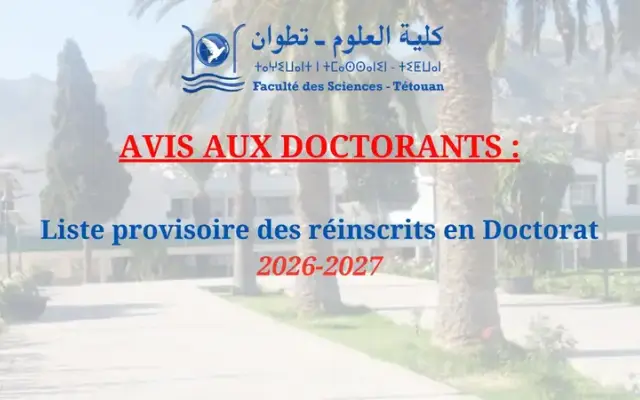
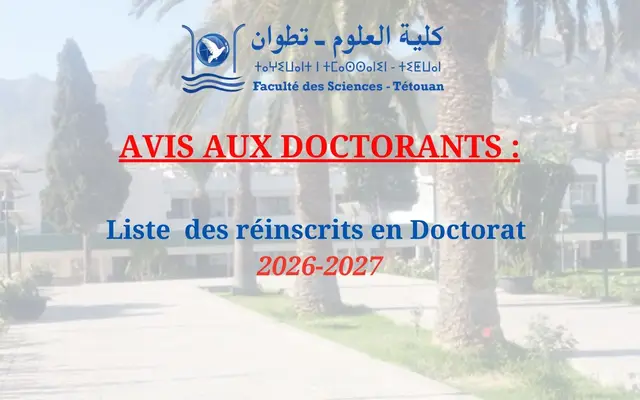
data: scrape 2026-10-07 12:00 UTC

diff --git a/data/posts/79.html b/data/posts/79.html
@@ -1,1 +1,1 @@
-<h3><a href="https://fs.uae.ac.ma/panel/admin/uploads/1791207068_Liste-Provisoire-05-10-26.pdf" class="file"> <em>Liste provisoire des réinscrits en Doctorat 2026-2027</em></a></h3>
+<h3><a href="https://fs.uae.ac.ma/panel/admin/uploads/1791367654_Liste%20provisoire%20des%20r%C3%A9inscrits-2026-2027-Act.pdf" class="file"> <em>Liste des réinscrits en Doctorat 2026-2027</em></a></h3>
